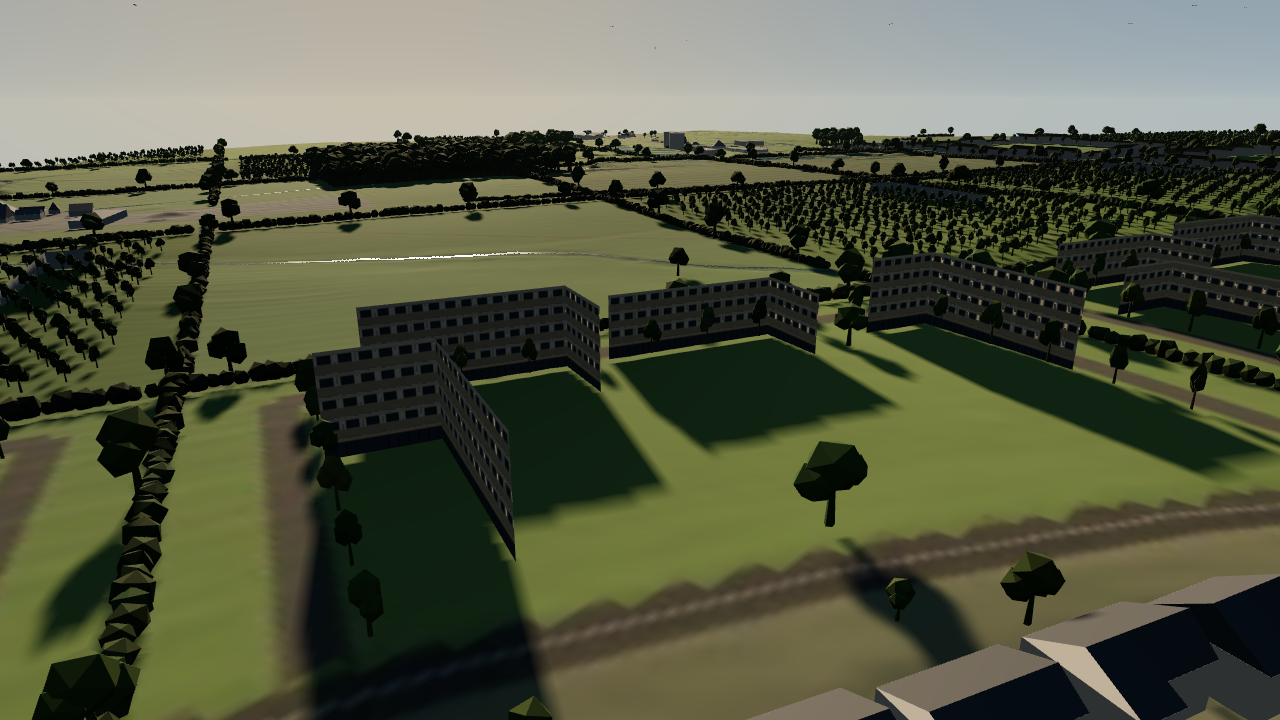
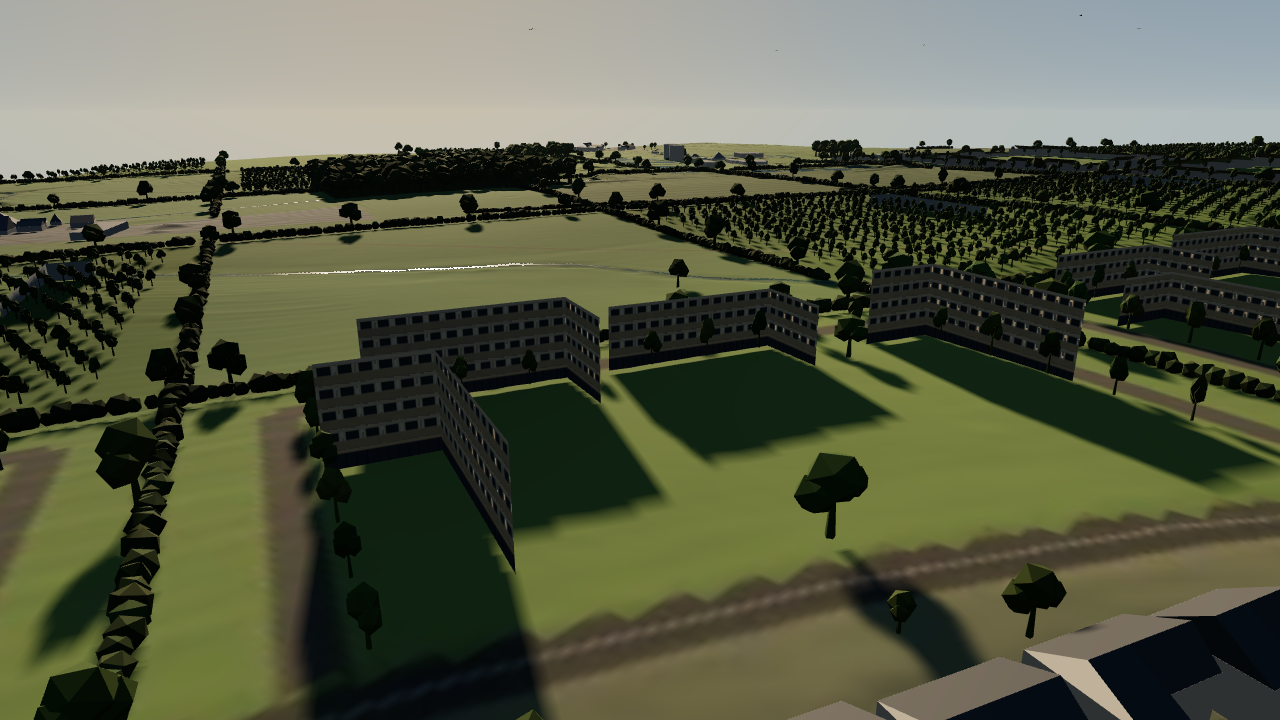
004, the campus at 100 m: written facades carry through to a photograph
Run on campus-ncic, not campus-cluster. The brief predates the facades and
the NCIC wedge, and even re-rendered the brief's camera misses the NCIC by
about 13 degrees, so the same position was turned to take it in. Both plates
are re-rendered with current code.

Passes the rule cleanly: the meadow wedge as focal point, banded blocks with
sedum roofs, sett plazas through wildflower, people and cyclists, sky about
14 per cent. The written geometry carries through at this distance, so more
Meshy types are not needed. Registration drifts 34-51 px, drawn high again:
sixth frame running.

measure_leg_anchors.py crashes on the new plate (IndexError in the height
lookup); reported in the result, not patched.

diff --git a/experiments/002-living-map/generate/close-2045/out/campus-ncic-notes.md b/experiments/002-living-map/generate/close-2045/out/campus-ncic-notes.md
@@ -1,0 +1,41 @@
+# Campus NCIC photographic conversion
+
+Generated with the built-in image_gen tool. Two passes: initial generation and one requested correction. Final saved at 1280×720 (native generation 1672×941, resized using sips).
+
+## Final status
+Visual treatment achieved, but **geometry QA fails**. This is not a geometry-approved frame. No further generation was performed after the single requested correction.
+
+## Measurements
+Manual visual bounding-box estimates on the final 1280×720 image; approximately ±4 px, with some tree occlusion. Boxes include architectural roof/frame, excluding shadows, people and isolated planting. Order: left, top, right, bottom. Residual = output minus requested edge.
+
+| Building | Requested box | Final measured box | Edge residuals px | Maximum absolute residual |
+|---|---|---|---|---|
+| NCIC | 722,268,905,342 | 718,224,956,320 | -4,-44,+51,-22 | 51 px |
+| Nearest left campus block | 0,368,285,500 | 0,334,286,488 | 0,-34,+1,-12 | 34 px |
+| Second campus block | 332,322,530,410 | 319,286,535,386 | -13,-36,+5,-24 | 36 px |
+
+First-pass approximate boxes were NCIC [722,238,980,342], nearest [0,346,294,493], second [337,302,537,391]. Correction requested restoration of original bounds and floor count. It reduced NCIC rightward extension but moved roof/building tops farther upward; it did not resolve overall composition drift.
+
+## Rule checks
+- No towers: PASS. Blocks remain broad horizontal bars; second foreground block reads as four storeys. Nearest block still appears simplified in floor count versus the plate.
+- NCIC as architectural focal point: PASS visually. Buff frame, horizontal glazing, glazed high end and continuous sloping flowering meadow roof with a walking path remain legible.
+- NCIC roof not lawn/green wall/separate hill: PASS.
+- NCIC location/size: FAIL against supplied box, as above.
+- No buildings added in open orchard/field areas: no obvious intrusion into left open fields observed. Exact development geometry preservation FAILS: several building silhouettes and positions differ from plate; background and foreground homes are not an exact survey match.
+- Visible life: PASS. Walkers, cyclists, people on roof path and seated/standing groups outside glazing are visible.
+- Courtyards: PASS. Buff paths/plazas, seating, planted meadow areas and mature trees.
+- Empty area <=50%: PASS by visual estimate, not segmentation. Sky about 15%; empty open ground modest, combined comfortably below half.
+- Light/season/palette: warm upper-left sun, long shadows, blue sky/small cumulus and late-summer planting. Distant countryside fills former map-data band.
+- No visible text, logos or watermark: PASS.
+- Photo treatment: detailed natural materials and vegetation, though some polished architectural-visualisation character remains.
+
+## Final prompt
+The complete correction prompt submitted to the built-in tool follows. Inputs: original campus plate (geometry master), approved panels/glasshouses photo (lighting only), first generated result (materials/activity only).
+
+Use case: sketch-to-render. Edit image 1 into a real aerial photograph of the proposed 2045 Golden Valley innovation campus, west Cheltenham, weekday late-summer afternoon. Image 1 is the GEOMETRY AND COMPOSITION MASTER: keep camera, framing, silhouettes, footprints, perspective and every building in exactly the same pixel locations. Image 2 is ONLY light/sky/season/palette reference. NEVER borrow its composition or buildings. Output 1280x720 landscape.
+Keep NCIC focal building at x722–905 y268–342 (1280x720 coordinates): single architectural wedge with ONE continuous dense flowering wildflower meadow roof sloping from ground at RIGHT end to 16m at LEFT end, pale stone perimeter frame, buff stone flanks with long horizontal glazing bands, fully glazed high end. Roof must visibly contain varied tall late summer meadow flowers, seedheads and grasses, and a narrow path with a few visible walking people. Not lawn, not green wall, not separate hill.
+Keep nearest campus block x0–285 y368–500, second block x332–530 y322–410, and all blocks behind precisely aligned with original silhouettes. 38x17m bars, 4–5 storeys, wide horizontal proportions. Deep buff stone spandrel band above each storey, ribbon windows wider than tall, timber fins at bay edges, continuous dark reflective glazed ground floor with solid head and cill, sedum roofs. Never stretch into towers. Keep foreground right homes exactly in place, red brick/timber walls, grey slate and red clay tile roofs.
+Ground BETWEEN CAMPUS BLOCKS must be occupied landscaped courtyards: angular buff sett plazas cutting through wildflower and long grass, few retained mature oaks, benches, bicycle racks, outdoor seating at glazed ground floors. Many small but clearly recognizable realistically scaled people crossing plazas, sitting outside glazing, cyclists and walkers on existing streets/paths, and people walking up meadow roof. Real afternoon campus activity is compulsory.
+Keep orchards, hedgerows and open fields in their original areas at left and distance, no added buildings in fields, no development brought forward. Land edge around y200 retained. Replace flat grey map-data band just above furthest land with distant Severn Vale countryside extending to natural distant horizon, NOT more sky. Blue sky small scattered cumulus. Match image2 warm low upper-left afternoon sunlight and late-summer palette, maintain original shadow direction, clear air. Rich natural photographic materials, real trees, convincing architecture, no CGI appearance. NCIC remains focal through architecture/detail, not moving or enlarging it. No more than half frame empty ground plus empty sky: activate existing courtyard surfaces with paving, planting and people without altering framing. No text, logos, watermarks. Exact geometry preservation is critical; all three specified boxes within 15px of original.
+CORRECTION PASS: Image 3 is first photographic attempt, for retaining its photographic materials and activity ONLY. It has geometry errors. Restore geometry from IMAGE 1 rigorously. At 1280x720 first attempt measured NCIC approximately [722,238,980,342], target [722,268,905,342]: shrink NCIC right edge 75px LEFT and lower top edge 30px, base fixed. Its roof must be shallower like master. Nearest left block first attempt [0,346,294,493], target [0,368,285,500]: top down22px, right left9px, base down7px. Second block first attempt [337,302,537,391], target [332,322,530,410]: translate left5px down20px, right edge to530. Preserve original four-to-five storey band count within these silhouettes, not three-storey simplified buildings. All other building positions, homes, roads, and undeveloped fields must follow image1 precisely, not the drifted third image. Keep flowering roof with visible walkers, horizontal stone/glazing bands, full-height high-end glass, lively plazas, cyclists, natural mature trees, distant countryside and lighting. Do not add any new buildings. Exact silhouettes matter more than visual enlargement of focal point.
+

diff --git a/experiments/002-living-map/generate/004-campus-close.md b/experiments/002-living-map/generate/004-campus-close.md
@@ -74,3 +74,63 @@ where the plate is still the limiting factor. The glazing defect is already
 known — what is worth reporting is anything *else* the models get wrong at this
 distance, because that is what decides whether the next type is worth its
 credits.
+
+## Result
+
+**10 Sep 2026, local session. Done, £0, Codex `image_gen`, one correction.**
+Output: `close-2045/out/campus-ncic-photo.png`, notes in `campus-ncic-notes.md`.
+
+### Two things in this brief did not match its plate, so the plate changed
+
+1. **The brief describes the Meshy models; the plate has the written facades.**
+   The brief predates `facades.js` (73bbab9) and the NCIC wedge (e0a30a1).
+   `campus-cluster.png` was re-rendered with the current code before running.
+2. **The NCIC is not in this camera's frame, even re-rendered.** From
+   `campus-cluster.json` it sits about 51° right of the view axis, against a
+   38° half-width. So I rendered **`campus-ncic`**: the same camera position,
+   turned to look at (−190, −115), which puts the NCIC centre-right with the
+   campus blocks around it. That is the plate this result is for. The
+   original stays as specified.
+
+**`measure_leg_anchors.py` crashes on `campus-ncic.json`:** `IndexError` in
+the height lookup (`at`, line 88), called from `describe` (line 158), so a
+projected feature's ground sample falls outside the height field. Not patched
+here, as it is your tool. The locks below were taken from the plate by eye.
+
+### The rule: passes cleanly
+
+| | in the frame |
+|---|---|
+| place of interest | the NCIC's meadow wedge, glazed high end catching the sun |
+| buildings | banded campus blocks with sedum roofs, the NCIC, homes in brick with slate and tile |
+| people | on the plazas, outside the glazed ground floors, walkers and cyclists on the new street, on the footway in the foreground |
+
+Sky is about 14 % of the frame, and the ground between the blocks became sett
+plazas through wildflower. Nothing is empty.
+
+### The named failures
+
+None of the four: no towers, the meadow roof is a roof, nothing added to the
+open fields, people everywhere.
+
+### Residuals, at 1280 × 720 (locks by eye from the plate)
+
+| feature | plate | residual (Codex, ±4 px) |
+|---|---|---|
+| NCIC | x 722–905, y 268–342 | up to **51 px**; drawn about 35–40 px **high** |
+| nearest campus block | x 0–285, y 368–500 | up to 34 px |
+| second campus block | x 332–530, y 322–410 | up to 36 px |
+
+The whole scene is drawn **high** again: the sixth frame running where this
+generator lifts the composition rather than shifting it at random.
+
+### Where the plate is the limiting factor
+
+**Not the buildings, this time.** At 100–250 m the written facades carry
+straight through: the ribbon windows, stone spandrels and sedum roofs are all
+in the photo, and the NCIC reads as a wedge you could walk up. Written
+geometry is enough for Codex at this distance, and the Meshy credits for more
+types are not needed.
+
+What limited it was upstream of the generator: a brief whose camera missed its
+own place of interest, and an anchor tool that could not measure the frame.

diff --git a/experiments/002-living-map/generate/README.md b/experiments/002-living-map/generate/README.md
@@ -17,7 +17,7 @@ protocol.
 | 001 | [`001-path-leg.md`](001-path-leg.md) | the first generated leg | **closed**: an empty footpath fails the interesting-imagery rule; do not run B or C |
 | 002 | [`002-gchq.md`](002-gchq.md) | GCHQ filling the frame, with surveyed locks | **done** (free, Codex): passes the rule; ring drawn ~22 px high; car parks are the plate's gap |
 | 003 | [`003-golden-valley-2045.md`](003-golden-valley-2045.md) | the Golden Valley in 2045 — three frames, one session | **done** (free, Codex): all three pass the rule; C is the proposition in one frame; A drifts ~50 px; the box ending before the horizon is the plate's gap |
-| 004 | [`004-campus-close.md`](004-campus-close.md) | the campus at 100 m, now with type models on the footprints | open, free |
+| 004 | [`004-campus-close.md`](004-campus-close.md) | the campus at 100 m, now with type models on the footprints | **done** (free, Codex) on `campus-ncic`: passes the rule; written facades carry through; drawn ~35 px high |
 
 ## The interesting-imagery rule (Dex, 10 Sep 2026)
 
